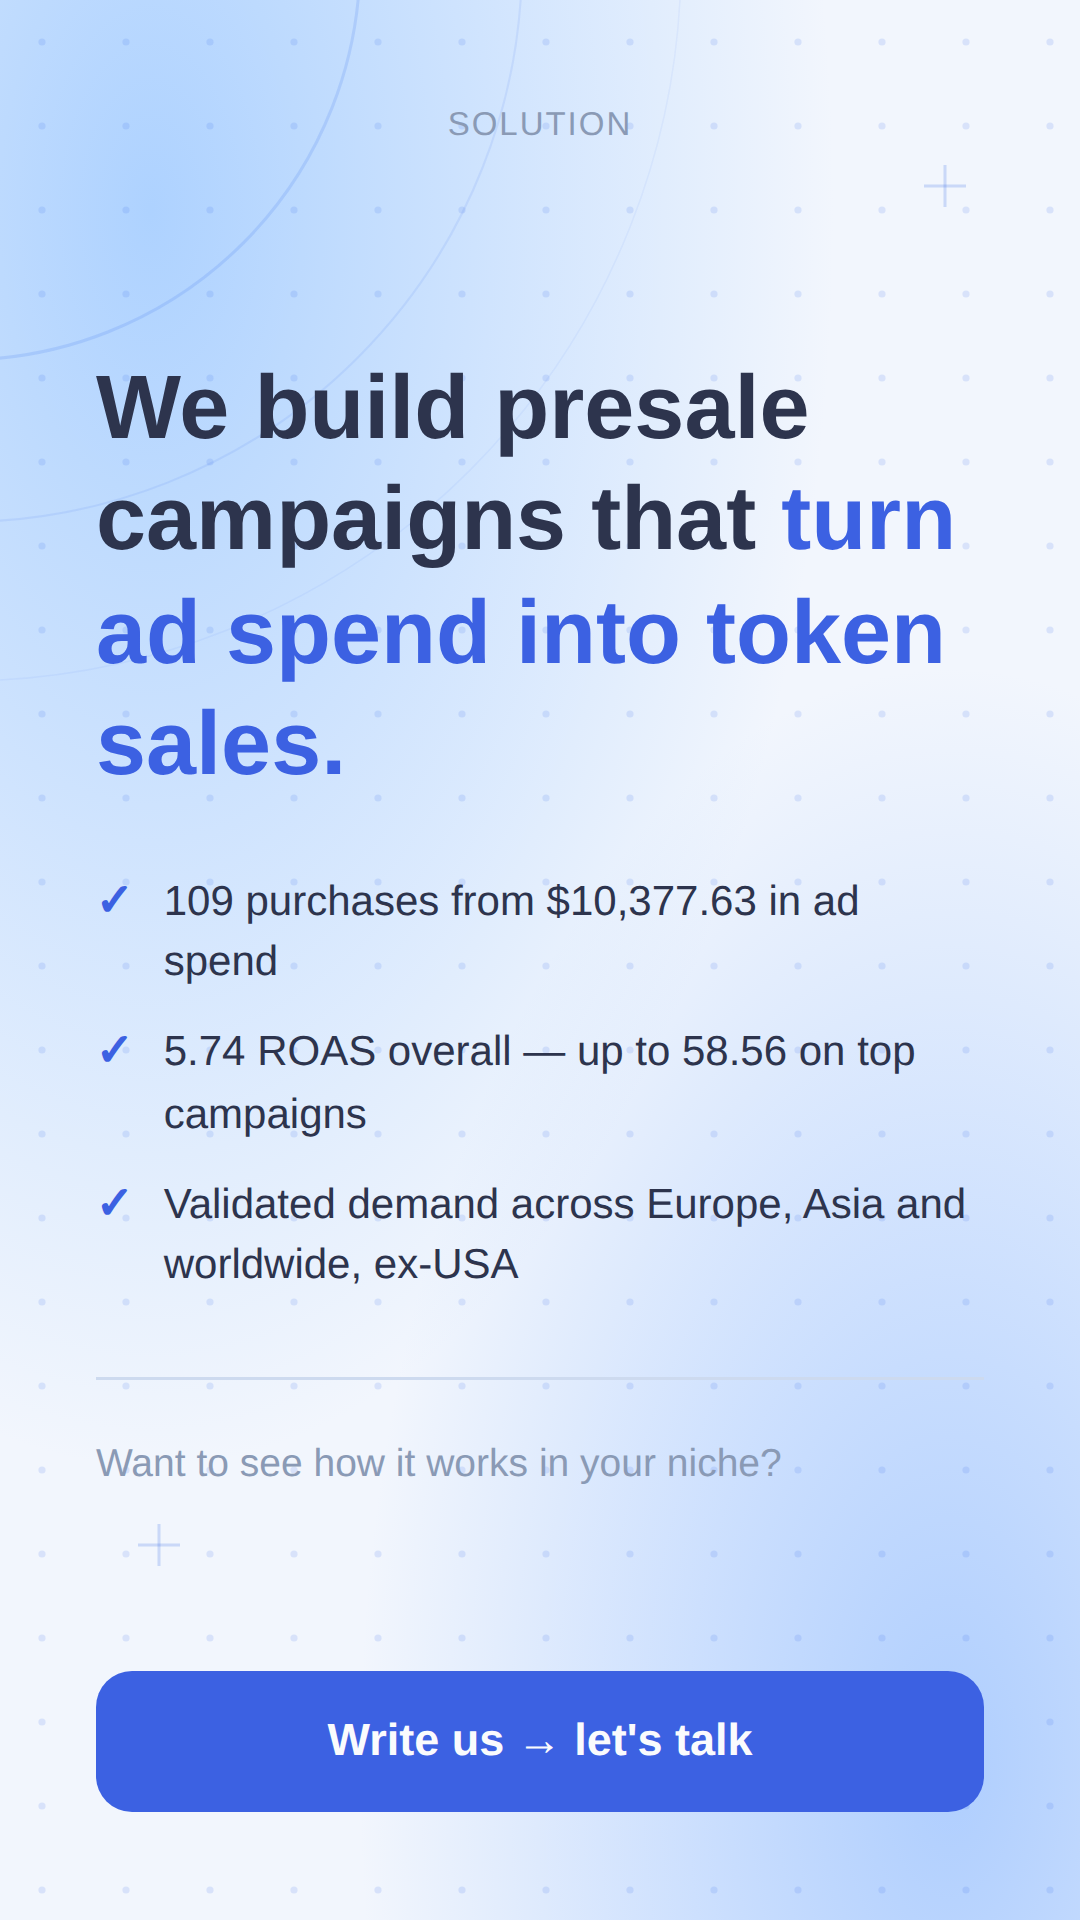
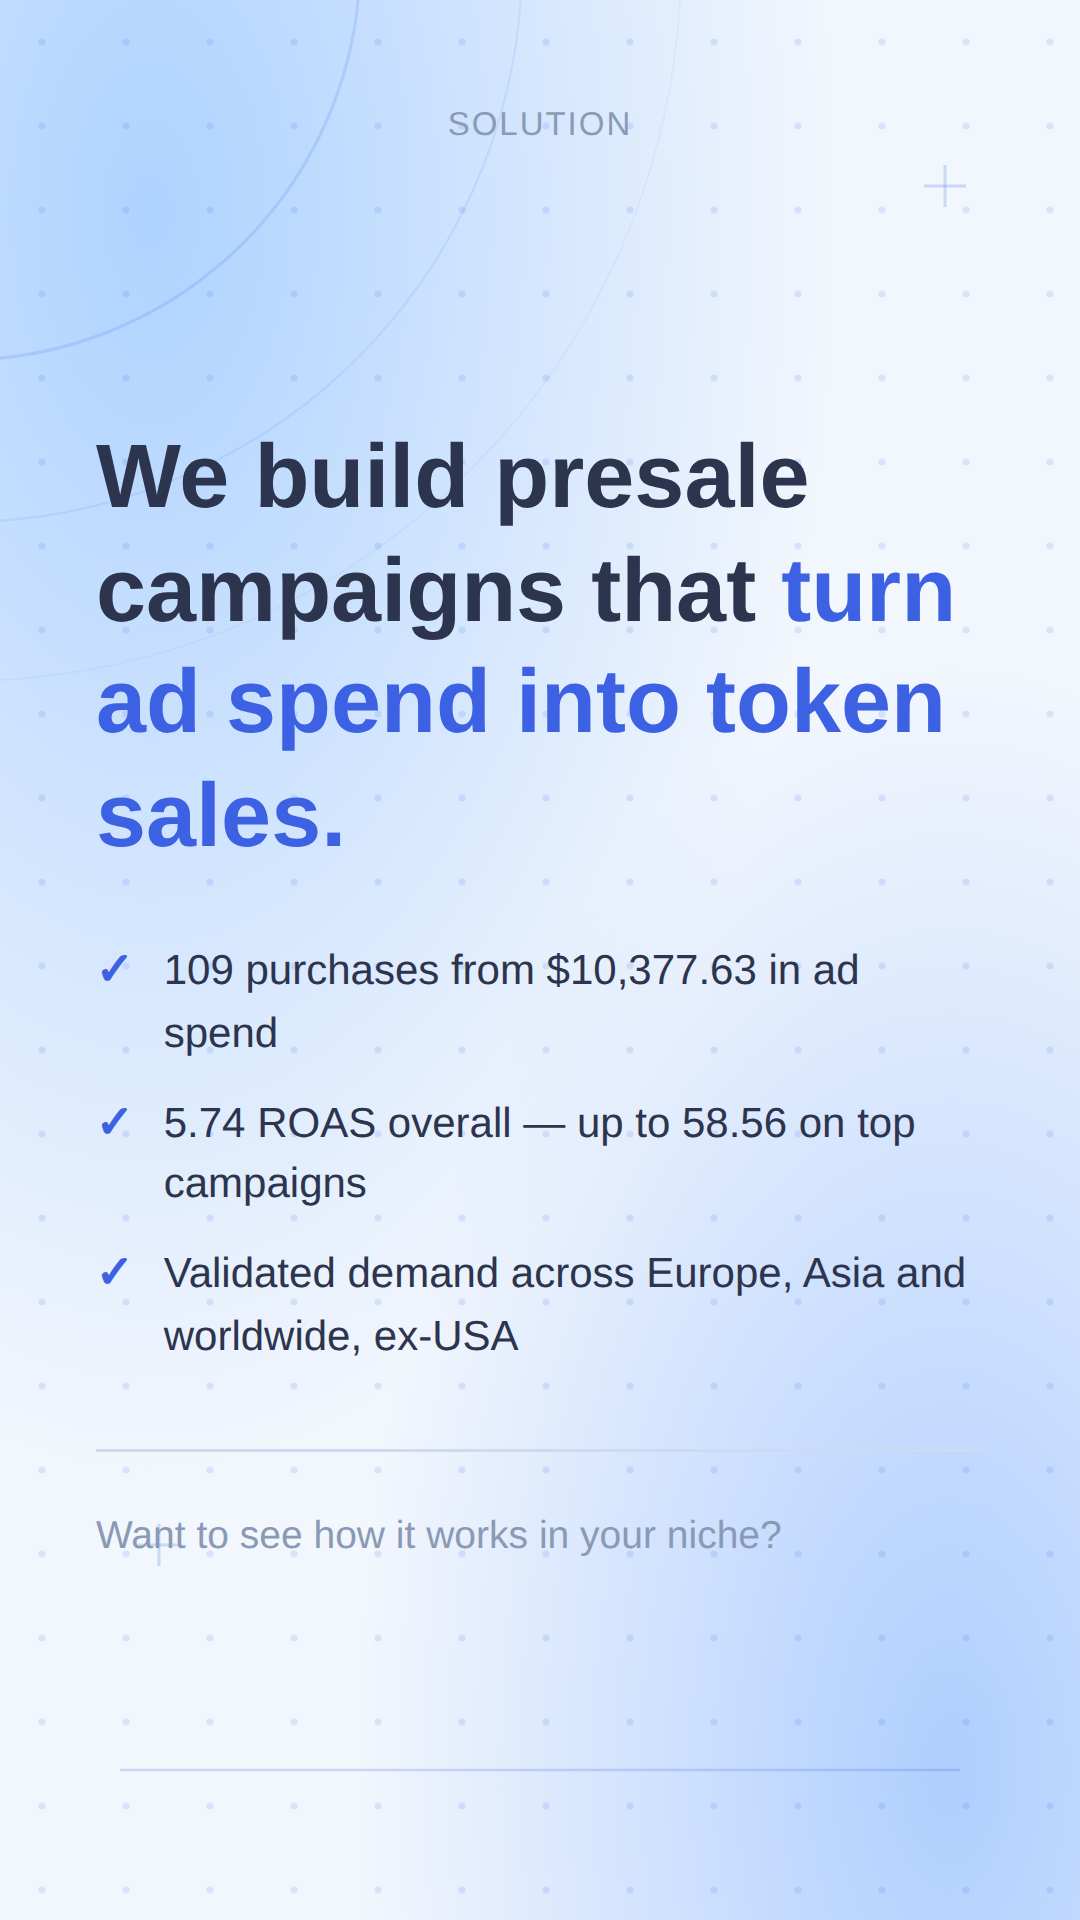
Move CTA button to a new 4th slide
Slide 3 (solution) no longer ends with the button; a dedicated
slide 4 now carries the closing headline, subline, and CTA button.

Claude-Session: https://claude.ai/code/session_01Mm8Epra3gcZXoGAos6FcRB

diff --git a/tg-stories/tg-q-presale-meta-ads.html b/tg-stories/tg-q-presale-meta-ads.html
@@ -96,6 +96,33 @@ body { font-family:'Onest',sans-serif; background:#1B1C2E; display:flex; gap:24p
     <div style="border-top:1px solid #CDDAEF;margin:18px 0;"></div>
     <div style="font-size:13px;color:#8A9AB5;line-height:1.6;margin-bottom:16px;">Want to see how it works in your niche?</div>
   </div>
+</div>
+
+<!-- SLIDE 4 — CTA -->
+<div class="slide">
+  <div class="bg-deco" aria-hidden="true">
+    <svg width="360" height="640" viewBox="0 0 360 640" xmlns="http://www.w3.org/2000/svg">
+      <defs>
+        <pattern id="dots14" x="0" y="0" width="28" height="28" patternUnits="userSpaceOnUse">
+          <circle cx="14" cy="14" r="1.2" fill="#3b6eea" fill-opacity="0.14"/>
+        </pattern>
+      </defs>
+      <rect width="360" height="640" fill="url(#dots14)"/>
+      <circle cx="-13" cy="-13" r="133" fill="none" stroke="#3b6eea" stroke-width="1"   stroke-opacity="0.16"/>
+      <circle cx="-13" cy="-13" r="187" fill="none" stroke="#3b6eea" stroke-width="0.7" stroke-opacity="0.10"/>
+      <circle cx="-13" cy="-13" r="240" fill="none" stroke="#3b6eea" stroke-width="0.5" stroke-opacity="0.06"/>
+      <line x1="40" y1="590" x2="320" y2="590" stroke="#3b6eea" stroke-width="0.8" stroke-opacity="0.22"/>
+      <g stroke="#3b6eea" stroke-width="1" stroke-opacity="0.22">
+        <line x1="308" y1="62" x2="322" y2="62"/><line x1="315" y1="55" x2="315" y2="69"/>
+        <line x1="46"  y1="515" x2="60" y2="515"/><line x1="53"  y1="508" x2="53"  y2="522"/>
+      </g>
+    </svg>
+  </div>
+  <div style="font-size:11px;font-weight:400;color:#8A9AB5;letter-spacing:0.06em;text-transform:uppercase;text-align:center;margin-bottom:28px;">Get Started</div>  <div style="flex:1;display:flex;flex-direction:column;justify-content:center;">
+    <div style="font-size:34px;font-weight:800;color:#2D344D;line-height:1.25;">Ready to turn ad spend into <span style="color:#3C61E2;">token sales?</span></div>
+    <div style="border-top:1px solid #CDDAEF;margin:18px 0;"></div>
+    <div style="font-size:14px;color:#8A9AB5;line-height:1.6;">Book a call. We'll map an ROAS-positive presale framework for your token.</div>
+  </div>
   <button style="margin-top:auto;background:#3C61E2;color:#FAFBFD;border:none;border-radius:12px;padding:15px 0;font-family:'Onest',sans-serif;font-size:15px;font-weight:600;cursor:pointer;width:100%;">Write us → let's talk</button>
 </div>
 
